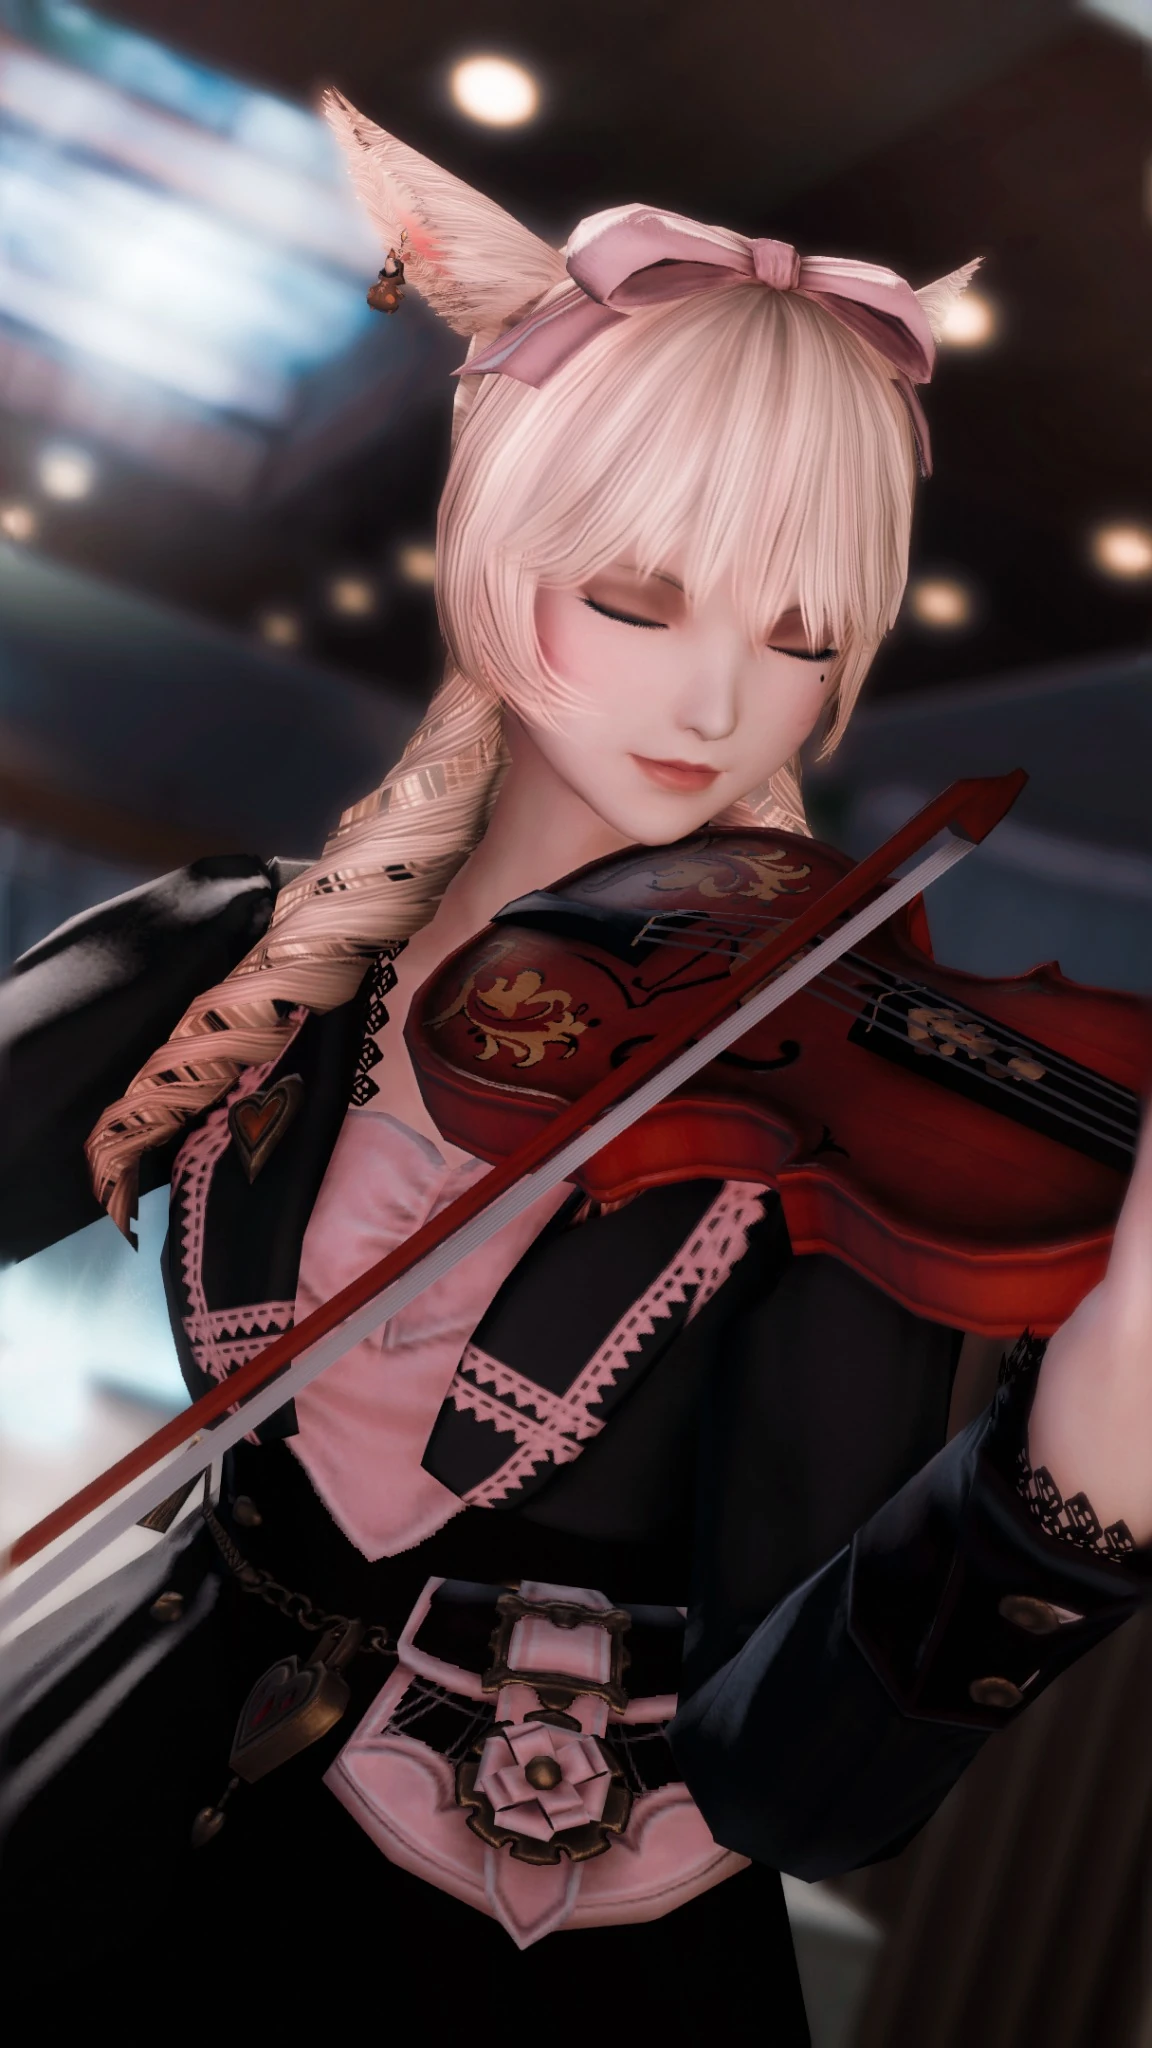
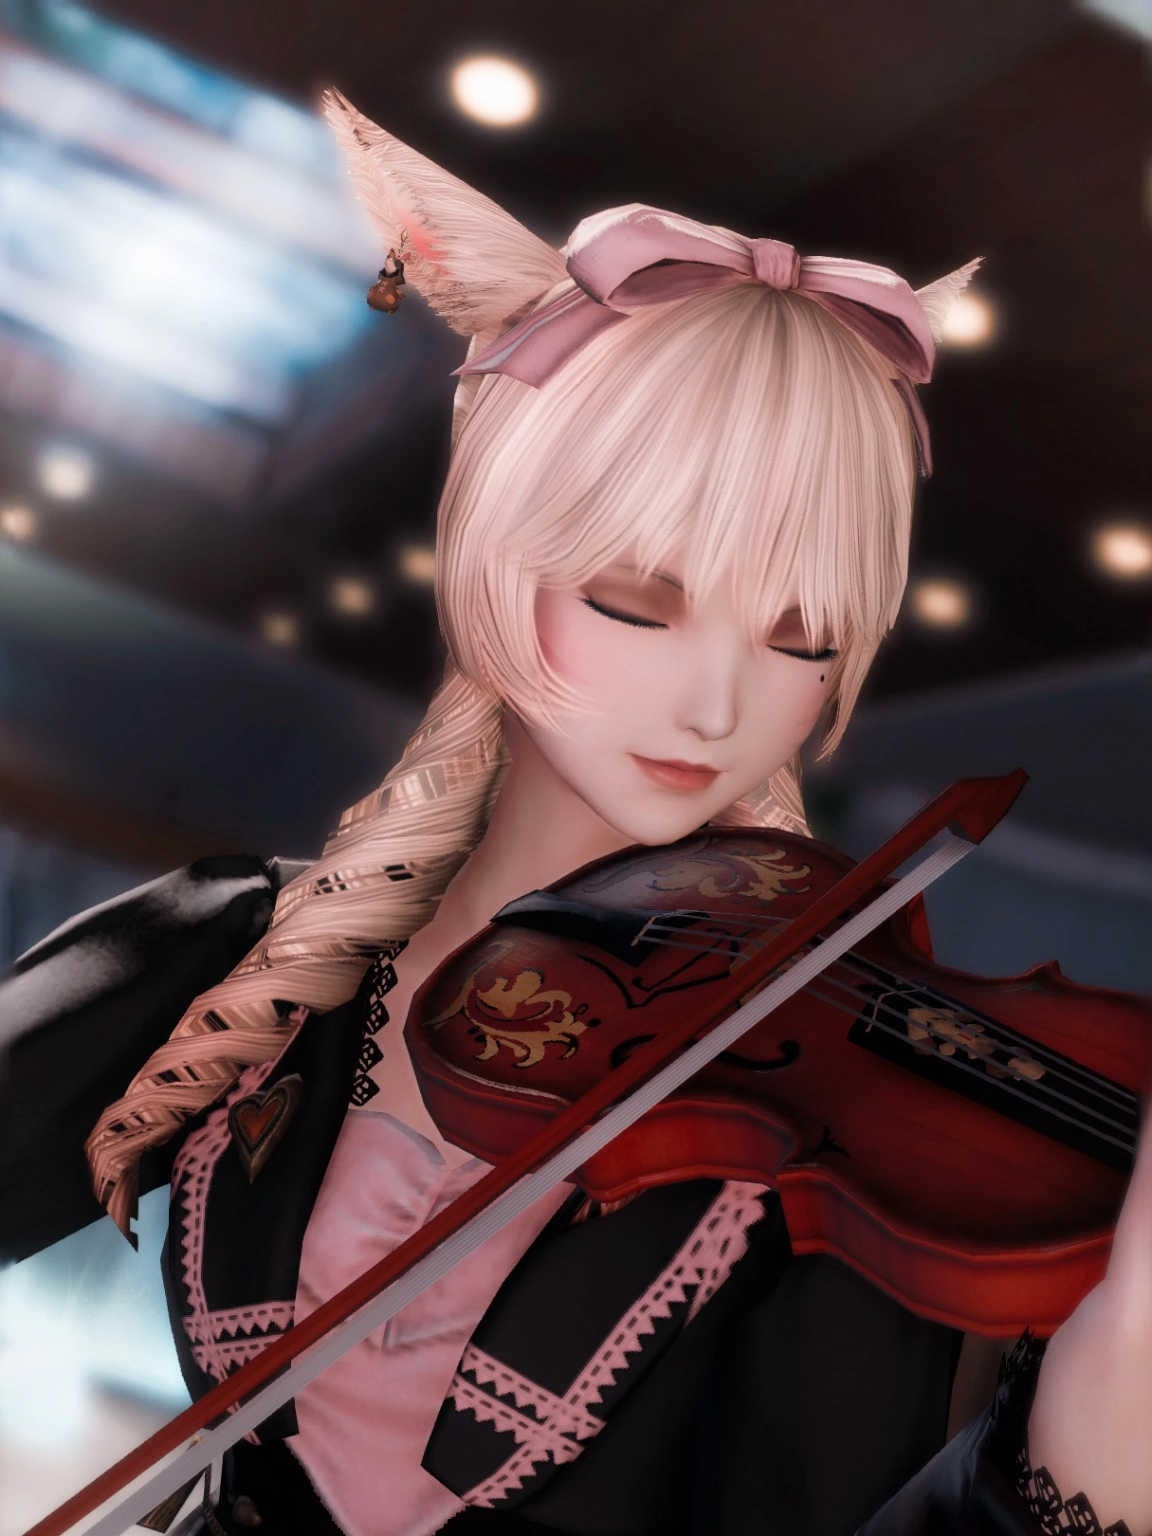
Correct Cheese Potato portrait crop to preserve ears and bow

diff --git a/index.html b/index.html
@@ -1131,7 +1131,7 @@ footer .cr{color:#4a5560;font-size:.72rem;margin-top:1em;letter-spacing:.05em}
           </div>
         </button>
         <button class="member-card" type="button" data-member="9" aria-pressed="false">
-          <div class="portrait"><img src="assets/cheese_potato_profile.webp" alt="水晶庭成員 起司薯點心" loading="lazy" decoding="async"></div>
+          <div class="portrait"><img src="assets/cheese_potato_profile.webp?v=2" alt="水晶庭成員 起司薯點心" loading="lazy" decoding="async"></div>
           <div class="member-card-copy">
             <div class="member-card-name">起司薯點心</div>
             <div class="member-card-role">夥伴 / Staff</div>
